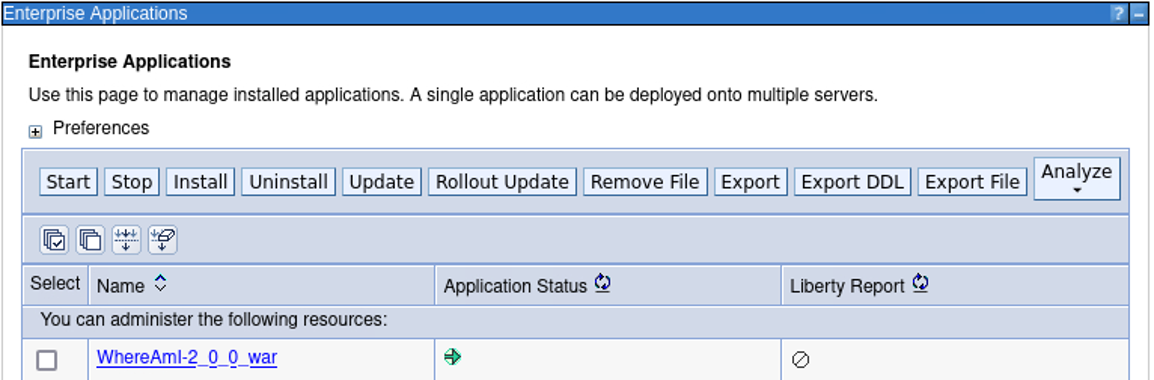
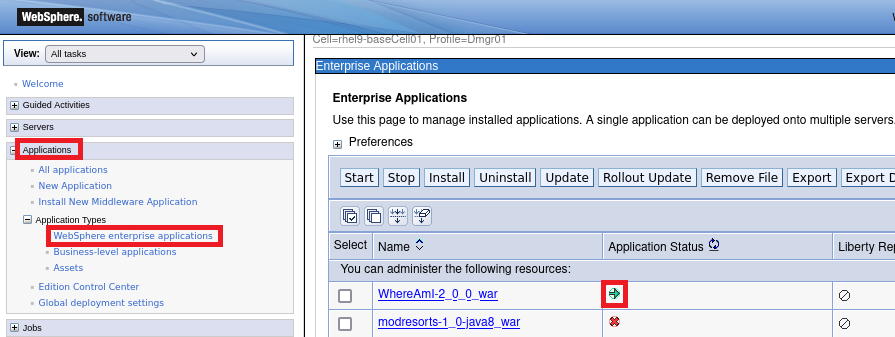
Add screenshots

diff --git a/README.md b/README.md
@@ -325,7 +325,15 @@ Otherwise, you will need to reserve an environment for the lab. You can obtain o
 
 7. Verify that the application has been started.
 
+	1. Navigate to **Applications > Application Types > WebSphere enterprise applications**. The WhereAmI-2.0.0.war application should be running.
+
 	<kbd>![](./images/media/WhereAmI_tWAS_started.png)</kbd>
+
+	Click on the application **WhereAmI-2.0.0.war**, then click on **Manmage Modules**.
+
+	<kbd>![](./images/media/WhereAmI_tWAS_mapping.png)</kbd>
+
+	Verify that the application is mapped to webserver1 and tWASCluster1.
 
 	<kbd>![](./images/media/WhereAmI_tWAS_deployed.png)</kbd>
 
